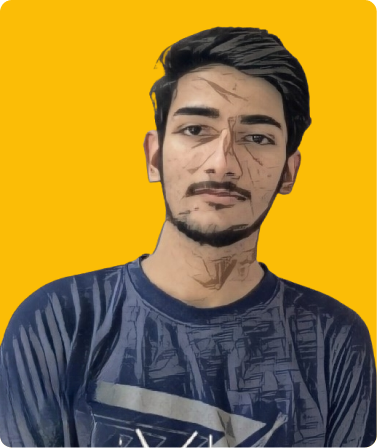
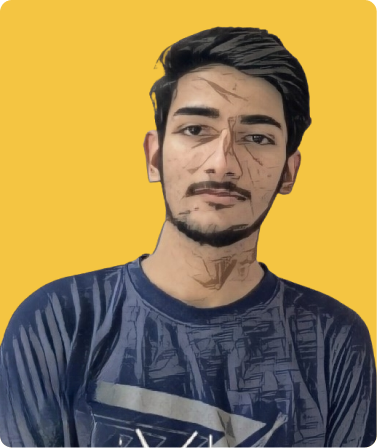
accent color changes.

diff --git a/app/globals.css b/app/globals.css
@@ -1,7 +1,7 @@
 :root {
   font-family: 'inter', sans-serif;
   --clr-primary: #F6F6F6;
-  --clr-accent: #FBBD06;
+  --clr-accent: #F4C542;
   --clr-neutral: #161616;
 
   --ff-primary: 'Open Sans', sans-serif;
